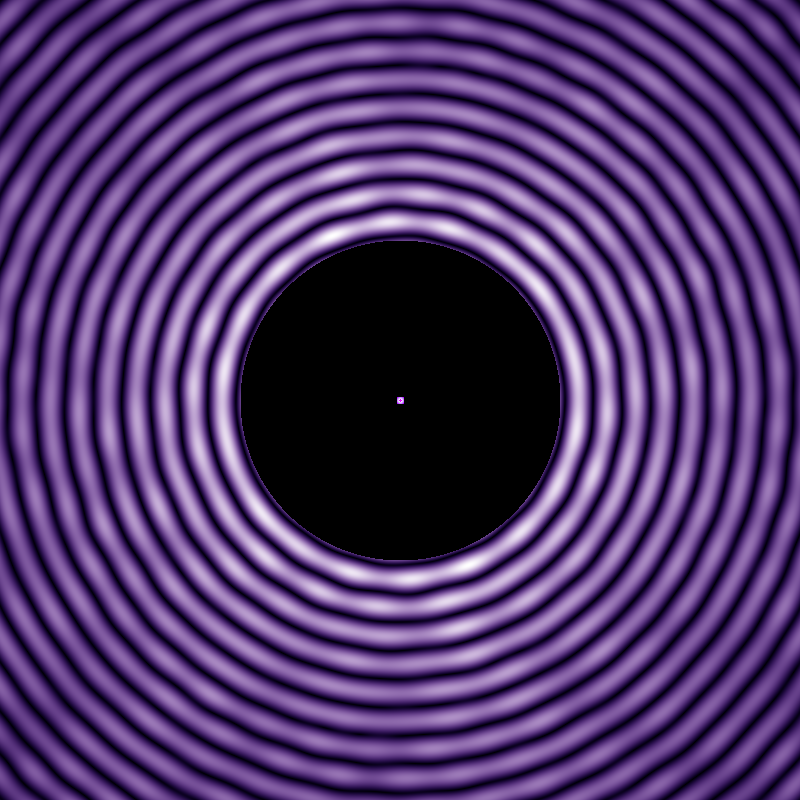
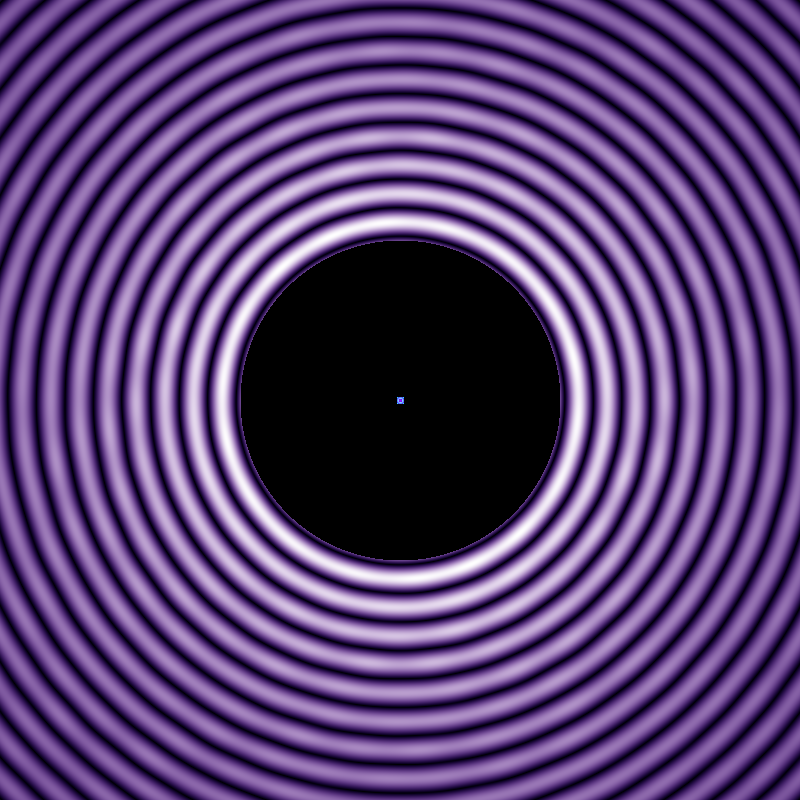
add diffraction

diff --git a/diffractionFromCircularDisk/main.go b/diffractionFromCircularDisk/main.go
@@ -25,7 +25,7 @@ const (
 	lambda      = 500e-9  // Длина волны (500 нм)
 	diskRadius  = 100e-6  // Радиус диска (100 мкм)
 	distance    = 7.14e-3 // Расстояние до экрана мм
-	samples     = 10000   // Количество точек на краю диска
+	samples     = 100000  // Количество точек на краю диска
 	screenWidth = 0.5e-3  // Ширина экрана мм
 )
 
@@ -104,17 +104,17 @@ func calculateAmplitude(points []Point, x, y float64) (float64, float64) {
 		fresnelFactor = 1 / math.Sqrt(m)
 	}
 
-	// Вычисление амплитуды с учетом коррекции интенсивности
+	// Вычисление амплитуды
 	for _, p := range points {
 		dx := x - p.X
 		dy := y - p.Y
 		phase := (k / (2 * distance)) * (dx*dx + dy*dy)
 		re += math.Cos(phase)
-		im += math.Sin(phase)
+		im += math.Sin(phase) // Суммируем синусы и косинусы фаз от всех точек и получаем суммарную амплитуду в точках
 	}
 
 	n := float64(len(points))
-	amplitude := fresnelFactor * (re / n) // Коррекция интенсивности с учетом зон Френеля
+	amplitude := fresnelFactor * (re / n) // Средняя амплитуда на точке
 	return amplitude, fresnelFactor * (im / n)
 }
 
@@ -152,12 +152,12 @@ func createPoissonEffectImage(points []Point, filename string) {
 	// Многозадачность с использованием атомарного максимума интенсивности
 	var maxIntensity uint64
 	var wg sync.WaitGroup
-	blockSize := imgHeight / 1024
+	blockSize := imgHeight / 8
 	if blockSize == 0 {
 		blockSize = 1
 	}
 
-	for blockY := 0; blockY < 1024 && blockY*blockSize < imgHeight; blockY++ {
+	for blockY := 0; blockY < 8 && blockY*blockSize < imgHeight; blockY++ {
 		wg.Add(1)
 		go func(blockY int) {
 			defer wg.Done()
@@ -175,10 +175,10 @@ func createPoissonEffectImage(points []Point, filename string) {
 					}
 					xPos := (float64(x) - float64(imgWidth)/2) * scale
 					yPos := (float64(y) - float64(imgHeight)/2) * scale
-					re, im := calculateAmplitude(points, xPos, yPos)
+					re, im := calculateAmplitude(points, xPos, yPos) // действительные и мнимые части амплитуды
 					intensity[y][x] = re*re + im*im
 					current := math.Float64bits(intensity[y][x])
-					for {
+					for { // находим максимальную интенсивность для нормализации всех пикселей [0....1]
 						old := atomic.LoadUint64(&maxIntensity)
 						if current <= old || atomic.CompareAndSwapUint64(&maxIntensity, old, current) {
 							break
